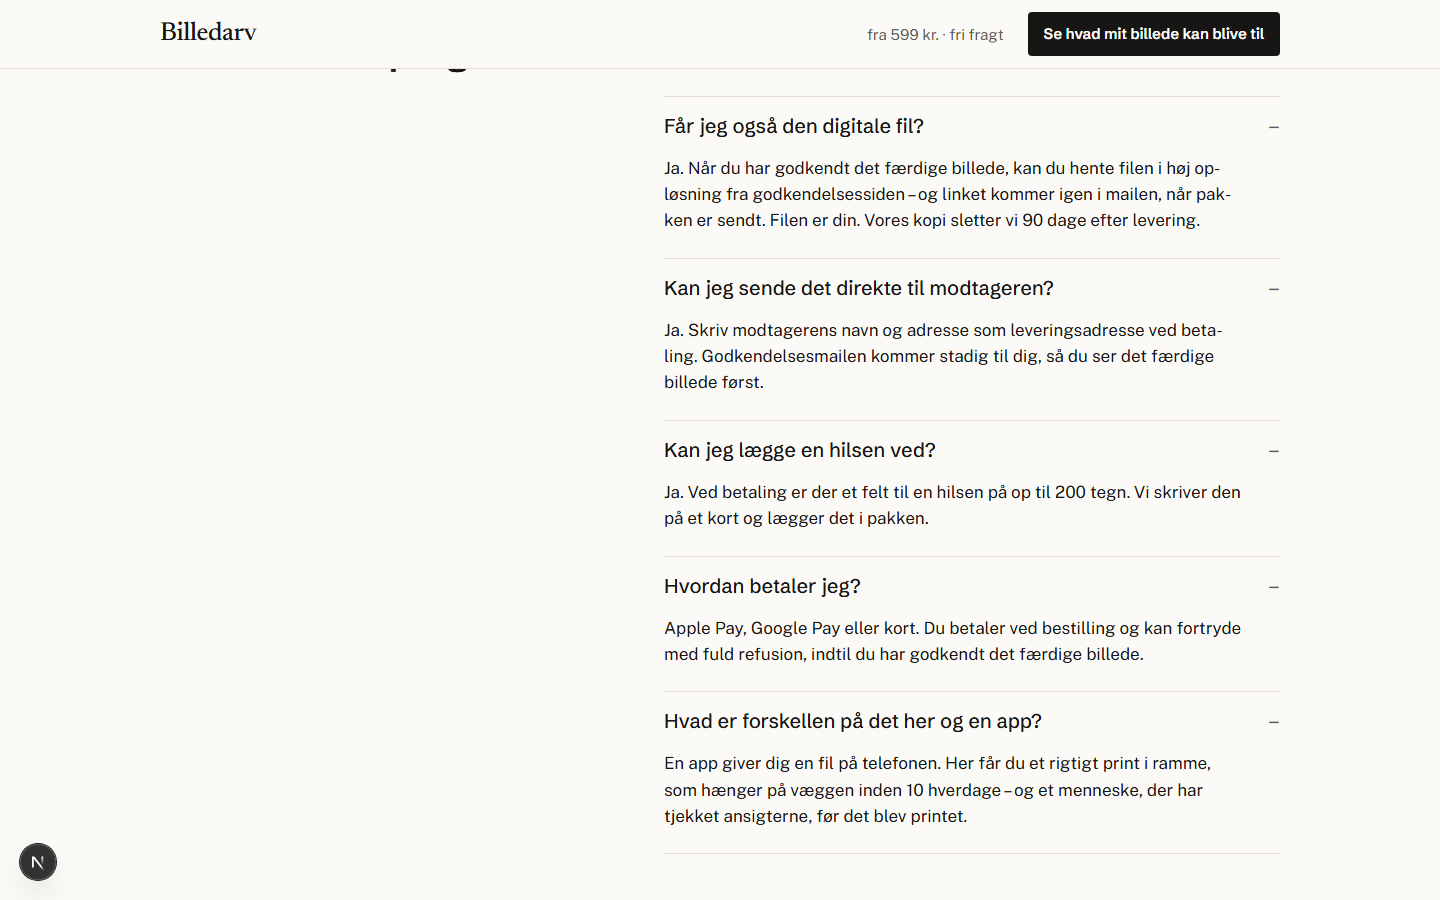
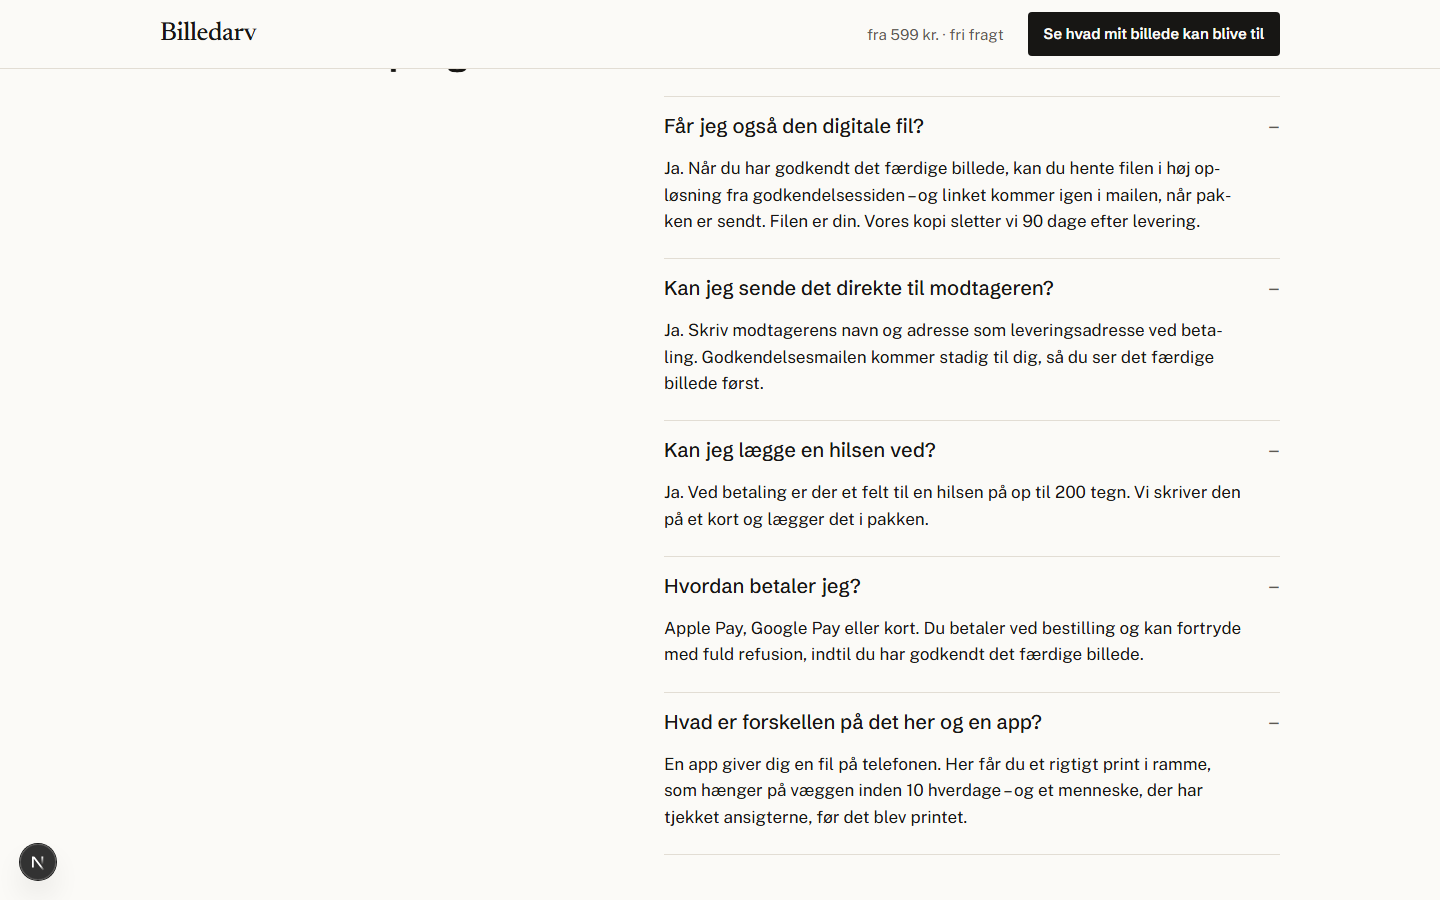
Landing page: size and frame as real choices, price follows, choice carries to the order page

diff --git a/app/page.tsx b/app/page.tsx
@@ -5,6 +5,7 @@ import type { Source } from '@/components/BeforeAfter';
 import Compare from '@/components/Compare';
 import ColourExample from '@/components/ColourExample';
 import Framed from '@/components/Framed';
+import SizePicker from '@/components/SizePicker';
 import UploadFlow from '@/components/UploadFlow';
 import OpenFlowButton from '@/components/OpenFlowButton';
 import StickyCtaMount from '@/components/StickyCtaMount';
@@ -144,37 +145,15 @@ export default async function Page() {
               <dl className="label o-rows">
                 {c.produkt.rows.map(([k, v]) => <div key={k}><dt>{k}</dt><dd>{v}</dd></div>)}
               </dl>
-              <div className="o-sizes" style={{ display: 'grid', gap: 'var(--s3)' }}>
-                <p className="small" style={{ fontWeight: 600 }}>{c.produkt.sizesTitle}</p>
-                <ul className="size-compare">
-                  {c.produkt.sizeCards.map((x) => (
-                    <li key={x.label} className={x.recommended ? 'is-recommended' : ''}>
-                      {x.recommended && <span className="tag">{c.produkt.recommended}</span>}
-                      <b>{x.label}</b>
-                      <span className="size-price tabular">{x.price}</span>
-                      <span className="caption">{x.hint}</span>
-                    </li>
-                  ))}
-                </ul>
-                <p className="caption">{c.produkt.sizesNote}</p>
-              </div>
-              <div className="o-frames" style={{ display: 'grid', gap: 'var(--s3)' }}>
-                <p className="small" style={{ fontWeight: 600 }}>{c.preview.frameTitle}</p>
-                <div className="frames">
-                  <span><span className="swatch swatch-sort" aria-hidden /> {c.preview.frameSort} · {c.preview.frameSortHint}</span>
-                  <span><span className="swatch swatch-eg" aria-hidden /> {c.preview.frameEg} · {c.preview.frameEgHint}</span>
-                </div>
-                <p className="caption">{c.preview.frameNote}</p>
-              </div>
-              <div className="o-price" style={{ display: 'grid', gap: 'var(--s3)' }}>
-                <div className="price-line">
-                  {c.sizes.length > 1 && <span className="caption">fra</span>}
-                  <span className="price tabular">{c.offer.price}</span>
-                  <span className="caption">{c.offer.priceNote}</span>
-                </div>
-                <p className="small" style={{ maxWidth: '30em' }}>{c.offer.allIn}</p>
-                {c.offer.anchor && <p className="caption" style={{ maxWidth: '30em' }}>{c.offer.anchor}</p>}
+              <SizePicker
+                sizes={c.produkt.sizeCards.map((x) => ({ format: x.format, label: x.label, price: x.price, hint: x.hint, recommended: x.recommended }))}
+                frames={[['sort', c.preview.frameSort, c.preview.frameSortHint], ['eg', c.preview.frameEg, c.preview.frameEgHint]]}
+                initialFormat={c.format}
+                t={{ sizeTitle: c.produkt.sizesTitle, sizeNote: c.produkt.sizesNote, frameTitle: c.preview.frameTitle, frameNote: c.preview.frameNote, recommended: c.produkt.recommended, priceNote: c.offer.priceNote, allIn: c.offer.allIn, carry: c.produkt.carry }}
+              />
+              <div className="o-promo" style={{ display: 'grid', gap: 'var(--s3)' }}>
                 {c.campaign.active && <div className="promo"><b>{c.campaign.title}</b><span>{c.campaign.body}</span><span className="caption">{c.campaign.terms}</span></div>}
+                {c.offer.anchor && <p className="caption" style={{ maxWidth: '30em' }}>{c.offer.anchor}</p>}
                 {c.offer.deadline && <p className="deadline">{c.offer.deadline}{c.hero.countdown ? ` ${c.hero.countdown}.` : ''}</p>}
               </div>
               <ul className="guarantee o-guarantee">

diff --git a/components/SizePicker.tsx b/components/SizePicker.tsx
@@ -1,0 +1,67 @@
+'use client';
+import { useState } from 'react';
+import { quote, type Format, type Frame } from '@/lib/pricing';
+
+export type PickSize = { format: Format; label: string; price: string; hint: string; recommended: boolean };
+export const PICK_KEY = 'gf_pick';
+
+/**
+ * Size and frame as real choices on the landing page. The price follows the choice at once, and the choice
+ * is kept in localStorage so the order page opens on it (PreviewPanel reads PICK_KEY once, then clears it).
+ * Same radios and classes as the order page, so the second time the customer meets them, they are familiar.
+ */
+export default function SizePicker({ sizes, frames, initialFormat, t }: {
+  sizes: PickSize[];
+  frames: [Frame, string, string][];
+  initialFormat: Format;
+  t: { sizeTitle: string; sizeNote: string; frameTitle: string; frameNote: string; recommended: string; priceNote: string; allIn: string; carry: string };
+}) {
+  const [format, setFormat] = useState<Format>(initialFormat);
+  const [frame, setFrame] = useState<Frame>('sort');
+  const remember = (next: { format?: Format; frame?: Frame }) => {
+    try { localStorage.setItem(PICK_KEY, JSON.stringify({ format, frame, ...next })); } catch { /* private mode */ }
+  };
+  const chosen = sizes.find((s) => s.format === format) ?? sizes[0];
+  const total = quote({ format, frame }).totalOere;
+  return (
+    <div className="o-pick config">
+      <fieldset className="cfg">
+        <legend className="cfg-label">{t.sizeTitle}</legend>
+        <div className="sizes-row">
+          {sizes.map((x) => (
+            <label key={x.format} className={`size${x.format === format ? ' is-on' : ''}${x.recommended ? ' is-recommended' : ''}`}>
+              <input type="radio" name="forside-stoerrelse" value={x.format} checked={x.format === format} onChange={() => { setFormat(x.format); remember({ format: x.format }); }} />
+              {x.recommended && <span className="tag">{t.recommended}</span>}
+              <b>{x.label}</b>
+              <span className="size-price tabular">{x.price}</span>
+              <span className="caption">{x.hint}</span>
+            </label>
+          ))}
+        </div>
+        <p className="caption">{t.sizeNote}</p>
+      </fieldset>
+      <fieldset className="cfg">
+        <legend className="cfg-label">{t.frameTitle}</legend>
+        <div className="frames-row">
+          {frames.map(([key, name, hint]) => (
+            <label key={key} className={`frame${key === frame ? ' is-on' : ''}`}>
+              <input type="radio" name="forside-ramme" value={key} checked={key === frame} onChange={() => { setFrame(key); remember({ frame: key }); }} />
+              <span className={`swatch swatch-${key}`} aria-hidden />
+              <span className="frame-text"><b>{name}</b><span className="caption">{hint}</span></span>
+            </label>
+          ))}
+        </div>
+        <p className="caption">{t.frameNote}</p>
+      </fieldset>
+      <div className="pick-price" aria-live="polite">
+        <div className="price-line">
+          <span className="price tabular">{chosen.price}</span>
+          <span className="caption">{chosen.label} · {frame === 'eg' ? 'egetræsramme' : 'sort ramme'} · {t.priceNote}</span>
+        </div>
+        <p className="small" style={{ maxWidth: '30em' }}>{t.allIn}</p>
+        <p className="caption" style={{ maxWidth: '30em' }}>{t.carry}</p>
+        <span className="visually-hidden">I alt {Math.round(total / 100)} kr.</span>
+      </div>
+    </div>
+  );
+}

diff --git a/components/PreviewPanel.tsx b/components/PreviewPanel.tsx
@@ -5,7 +5,8 @@ import { PRODUCT, track } from '@/lib/analytics/client';
 import MailLine from './MailLine';
 import type { Copy } from '@/lib/copy';
 import type { PreviewPayload } from '@/lib/preview-service';
-import { quote, formatOere, MAX_EXTRA_PRINTS, type Format, type Frame } from '@/lib/pricing';
+import { quote, formatOere, MAX_EXTRA_PRINTS, customerFormat, isFormat, isFrame, type Format, type Frame } from '@/lib/pricing';
+import { PICK_KEY } from './SizePicker';
 
 /** Loads an image off-screen so a swap never flashes the wrong picture. */
 const preload = (src: string) => new Promise<void>((resolve) => { const i = new Image(); i.onload = () => resolve(); i.onerror = () => resolve(); i.src = src; });
@@ -124,6 +125,19 @@ export default function PreviewPanel({ c, data: initial, cancelled, paid, token 
     track('AddToCart', { ...PRODUCT, content_ids: [next], value: quote({ format: next, frame, extraPrints, campaign: c.campaign.active }).totalOere / 100 }, { serverLog: true });
   };
   const pickFrame = (next: Frame) => { if (next === frame) return; setFrame(next); persist({ frame: next }); };
+  // the size and frame chosen on the landing page: applied once, only while the order still sits on its defaults
+  useEffect(() => {
+    let raw: string | null = null;
+    try { raw = localStorage.getItem(PICK_KEY); localStorage.removeItem(PICK_KEY); } catch { /* private mode */ }
+    if (!raw || paid || cancelled) return;
+    if (data.format !== customerFormat() || data.addons.frame !== 'sort' || data.addons.extraPrints !== 0) return;
+    try {
+      const pick = JSON.parse(raw) as { format?: unknown; frame?: unknown };
+      if (isFormat(pick.format) && pick.format !== format) pickFormat(pick.format);
+      if (isFrame(pick.frame) && pick.frame !== frame) pickFrame(pick.frame);
+    } catch { /* ignore */ }
+    // eslint-disable-next-line react-hooks/exhaustive-deps
+  }, []);
   const setExtras = (next: number) => {
     const n = Math.min(MAX_EXTRA_PRINTS, Math.max(0, next));
     if (n === extraPrints) return;

diff --git a/lib/copy.ts b/lib/copy.ts
@@ -142,9 +142,10 @@ export function copy(season: Season = currentSeason()) {
       lead: 'Restaureret foto, print, ramme og levering. Ét beløb – ingen tillæg.',
       rows: rowsFor(format, formatLabel(format)),
       sizesTitle: 'Størrelser',
-      sizeCards: sizes.map((fmt) => ({ label: formatLabel(fmt), price: formatDkk(PRICING[fmt].priceDkk), hint: hint[fmt] ?? '', recommended: fmt === RECOMMENDED_FORMAT })),
+      sizeCards: sizes.map((fmt) => ({ format: fmt, label: formatLabel(fmt), price: formatDkk(PRICING[fmt].priceDkk), hint: hint[fmt] ?? '', recommended: fmt === RECOMMENDED_FORMAT })),
       recommended: 'Anbefalet',
-      sizesNote: `Samme billede og samme kvalitet i alle tre. ${formatLabel(format)} er sat op på forhånd – du kan skifte, når du har set resultatet.`,
+      sizesNote: 'Samme billede og samme kvalitet i alle tre. Tryk på den, du vil have.',
+      carry: 'Dit valg følger med til bestillingssiden. Du kan skifte igen, når du har set dit billede.',
       note: `Restaurering, print, ramme, kort med din hilsen, indpakning og fragt – ét beløb per billede.`,
     },
     eksempler: { h2: 'Det kunne være jeres.', lead: 'Bryllupsbilledet, barnet på trappen, bedsteforældrene i haven. Gulnet, ridset eller falmet – tag et foto af det, og se selv, hvad der kan gøres.', syntheticNote: 'Eksemplerne er ikke kundebilleder. Originalerne er fremstillet til at vise, hvad restaureringen gør ved folder, pletter og falmede farver – og selve restaureringen er kørt gennem præcis den samme proces som dit billede.', placeholderNote: 'Vi er nystartede og viser ikke kundebilleder, vi ikke har fået lov til at vise. Eksemplerne her er arkivfotos fra nordiske museer, Wikimedia Commons og Library of Congress – kørt gennem præcis den samme proces som dit. Dit eget resultat ser du om halvandet minut, før du bestiller noget.' },

diff --git a/app/landing.css b/app/landing.css
@@ -87,13 +87,17 @@
 .offer-spec .lead { max-width: 24em; color: var(--ink-2); }
 /* on a phone the price, the sizes and the button come before the spec rows; on a desk the rows read first */
 .offer-spec > .o-head { order: 0; }
-.offer-spec > .o-price { order: 1; }
-.offer-spec > .o-sizes { order: 2; }
+.offer-spec > .o-pick { order: 1; }
+.offer-spec > .o-promo { order: 2; }
 .offer-spec > .o-guarantee { order: 3; }
 .offer-spec > .o-cta { order: 4; }
 .offer-spec > .o-rows { order: 5; }
-.offer-spec > .o-frames { order: 6; }
-@media (min-width: 1024px) { .offer-spec > .o-rows { order: 1; } .offer-spec > .o-sizes { order: 2; } .offer-spec > .o-frames { order: 3; } .offer-spec > .o-price { order: 4; } .offer-spec > .o-guarantee { order: 5; } .offer-spec > .o-cta { order: 6; } }
+@media (min-width: 1024px) { .offer-spec > .o-rows { order: 1; } .offer-spec > .o-pick { order: 2; } .offer-spec > .o-promo { order: 3; } .offer-spec > .o-guarantee { order: 4; } .offer-spec > .o-cta { order: 5; } }
+/* the picker: same radios as the order page; the price under it follows the choice */
+.o-pick .cfg:first-child { padding-top: 0; }
+.o-pick .cfg-label { margin-bottom: var(--s1); }
+.pick-price { display: grid; gap: var(--s2); padding-top: var(--s4); box-shadow: inset 0 1px 0 var(--hairline); }
+.pick-price .price-line { padding-top: var(--s2); }
 .frames { display: flex; gap: var(--s4); flex-wrap: wrap; }
 .frames > span { display: inline-flex; align-items: center; gap: var(--s3); font-size: var(--fs-small); }
 .frames .swatch { width: 26px; height: 32px; background: #f7f5f0; }
